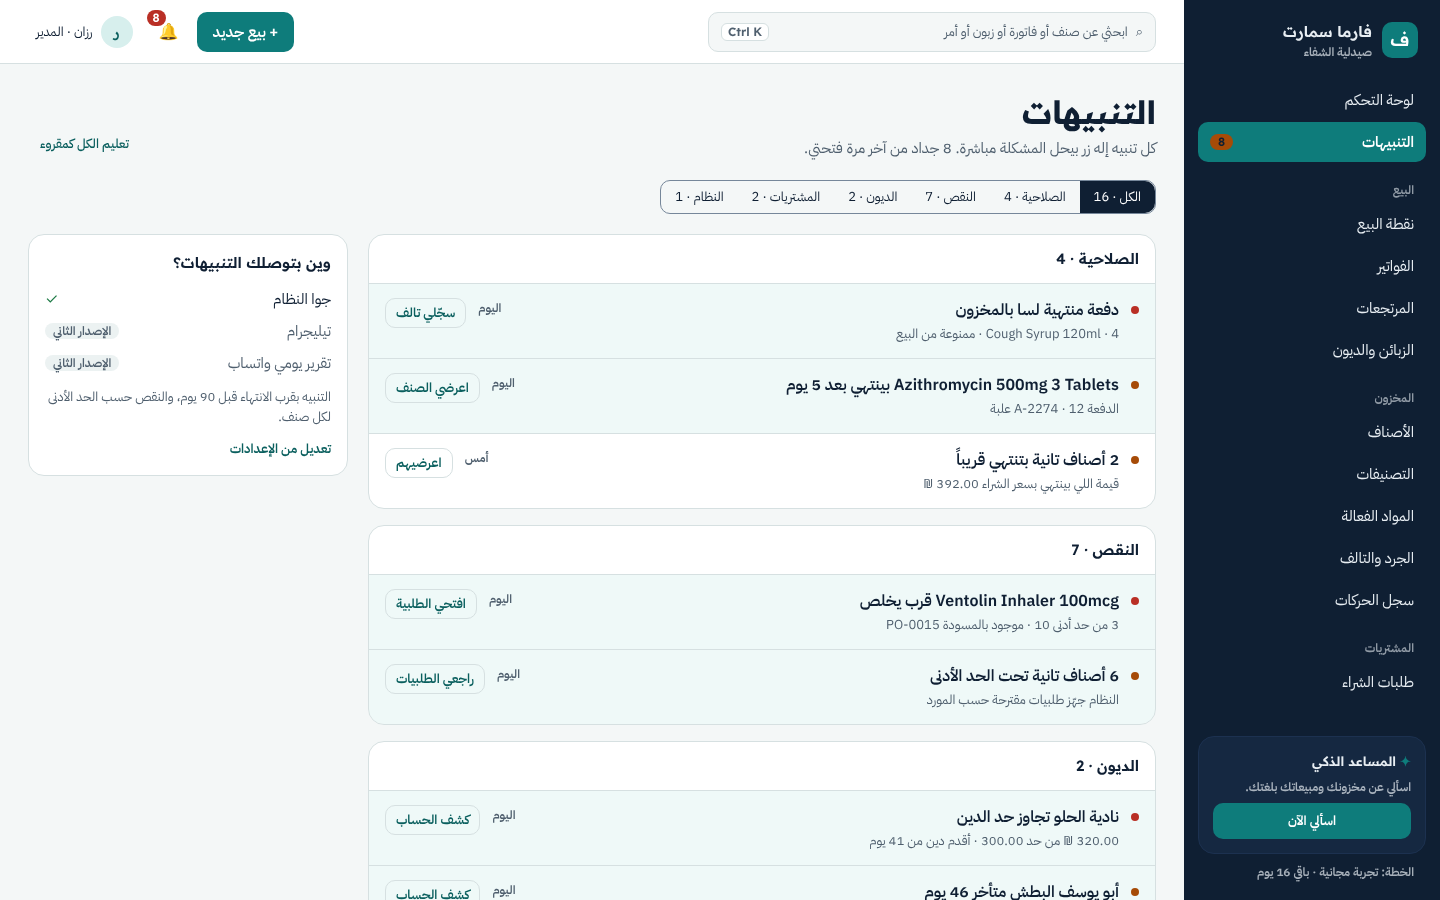
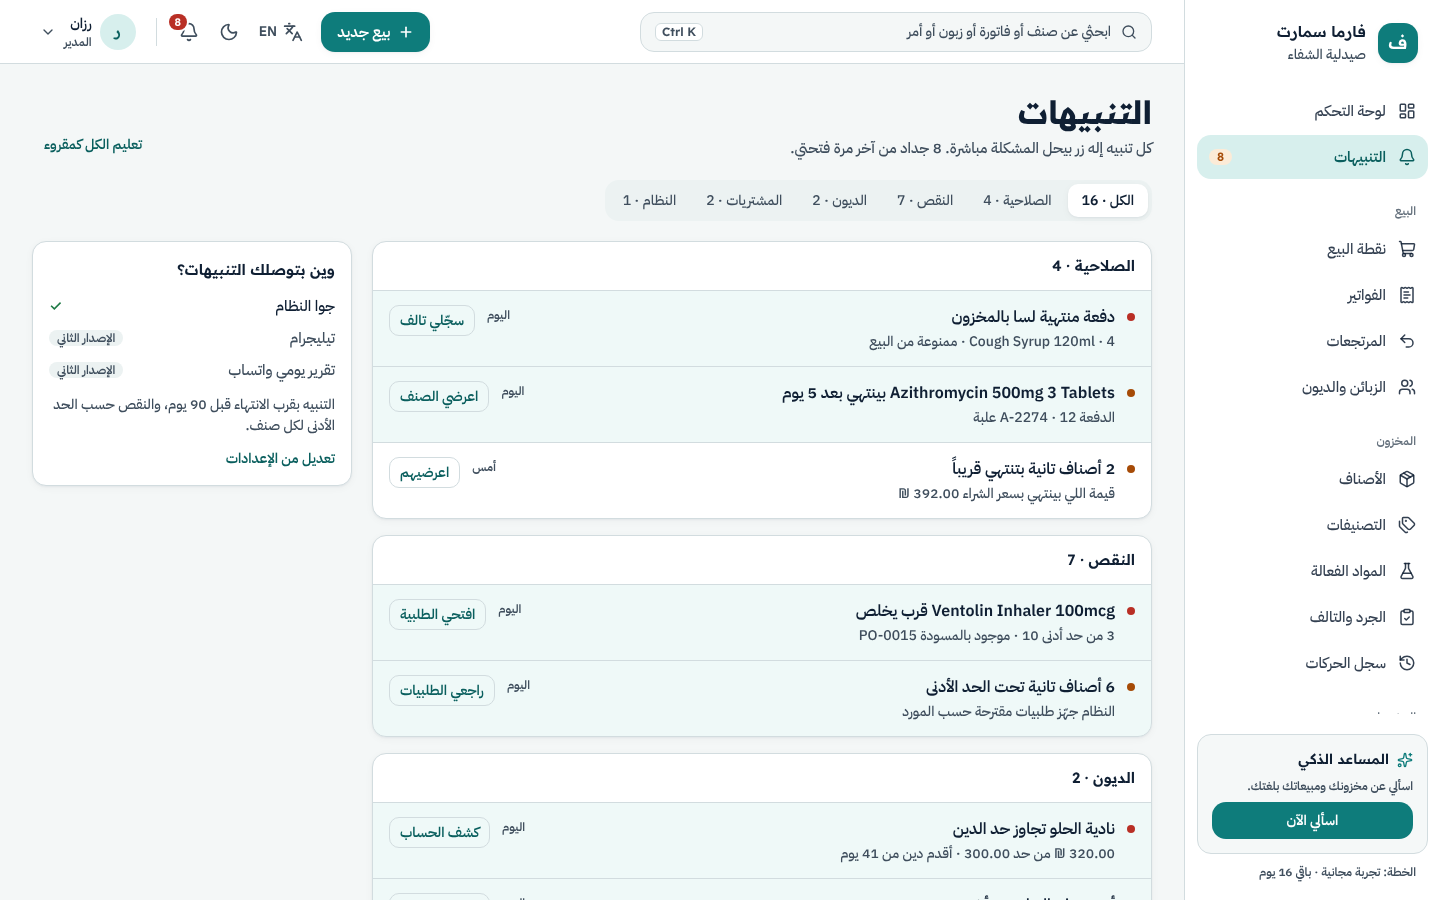
docs: round 12 (polish and landing page), fresh screenshots

diff --git a/docs/modules/12-polish.md b/docs/modules/12-polish.md
@@ -1,0 +1,119 @@
+# الجولة 12: تحسين الشكل، وصفحة الزوار
+
+بعد ما خلصت كل الشاشات، الشكل كان لسا باهت: الخط فاتح، والهوامش كبيرة، والأيقونات رموز نصية. هالجولة كلها عن الشكل والراحة، وما فيها شاشات شغل جديدة، إلا صفحة الزوار.
+
+النتيجة: 284 اختبار ناجح، منهم 10 جداد.
+
+## المحتويات
+
+1. [شو تغير](#شو-تغير)
+2. [جربيها بنفسك](#جربيها-بنفسك)
+3. [الأجزاء اللي انبنت](#الأجزاء-اللي-انبنت)
+4. [قرارات مهمة](#قرارات-مهمة)
+5. [الروابط الجديدة بالباك إند](#الروابط-الجديدة-بالباك-إند)
+6. [الاختبارات](#الاختبارات)
+7. [أخطاء لقيناها وصلحناها](#أخطاء-لقيناها-وصلحناها)
+
+---
+
+## شو تغير
+
+| الشكوى                           | الحل                                                                             |
+| -------------------------------- | -------------------------------------------------------------------------------- |
+| الخط فاتح وباهت                  | وزن النص صار 500 بدل 400، والألوان الثانوية أغمق. الخط نفسه نفس خط التصميم       |
+| هوامش كبيرة عالجوانب             | الصفحة بتوسع لحد 1800 بكسل بدل 1240                                              |
+| الأيقونات مش حقيقية              | كل أيقونات القائمة والأزرار صارت من مكتبة أيقونات حقيقية                         |
+| حدود الحقول باهتة                | للحقول لون حدود خاص فيها، أغمق، ومع تغيير لما الماوس يمر عليها                   |
+| السايدبار                        | أبيض بالنهار، وبالليل بلون خلفية الصفحة                                          |
+| اللغة والمظهر                    | زرين صغار بالشريط العلوي، بضغطة وحدة. والاختيار الكامل ضل بالإعدادات بشكل أنظف   |
+| اللوحات الجانبية ما بتسكر من برا | أي لوحة أو نافذة بتسكر لما تضغطي على الخلفية الغامقة. وقوائم الشريط العلوي كمان  |
+| السكرول                          | سلس بكل مكان، إلا لو الجهاز طالب تقليل الحركة                                    |
+| الإعدادات مش زي التصميم          | العنوان وزر الحفظ بشريط واحد ثابت، والقسم الحالي متعلم بالقائمة، وفي مكان للشعار |
+| التحليل الذكي بينقلني للمساعد    | صار بيفتح لوحة جانبية مكانه، من لوحة التحكم ومن التقارير                         |
+| صفحة الزوار مش موجودة            | صفحة عامة جديدة على `/welcome`، واللي مش مسجل دخول وفتح `/` بيوصلها              |
+
+---
+
+## جربيها بنفسك
+
+1. شغلي المشروع: `npm run dev`
+2. للصفحة العامة: افتحي الكونسول واكتبي
+
+```js
+localStorage.mockRole = 'none'
+```
+
+وبعدين افتحي `/`. أو افتحي `/welcome` مباشرة بأي وقت.
+
+3. للرجوع كمديرة: سجلي دخول من الصفحة، أو اكتبي
+
+```js
+localStorage.mockRole = 'manager'
+```
+
+---
+
+## الأجزاء اللي انبنت
+
+| الملف                                                   | شو بيعمل                                                      |
+| ------------------------------------------------------- | ------------------------------------------------------------- |
+| `src/pages/landing/`                                    | صفحة الزوار: التعريف، المزايا، الخطوات، الأدوار، وزر الانضمام |
+| `src/widgets/smart-analysis/`                           | التحليل الذكي كلوحة جانبية، وزر بيفتحها مكانه                 |
+| `src/shared/lib/dismiss/`                               | بيسكر أي قائمة صغيرة لما تضغطي برا أو على Escape              |
+| `src/features/switch-theme/ui/ThemeToggle.tsx`          | زر نهاري وليلي بالشريط العلوي                                 |
+| `src/features/switch-language/ui/LanguageToggle.tsx`    | زر تبديل اللغة بالشريط العلوي                                 |
+| `src/features/settings/edit-settings/ui/LogoPicker.tsx` | شعار الصيدلية: عرض ورفع                                       |
+| `src/pages/settings/model/useActiveSection.ts`          | بيعرف أي قسم ظاهر بالإعدادات، عشان يتعلم بالقائمة             |
+| `public/landing/`                                       | صورتين حقيقيتين للوحة التحكم، نهاري وليلي، لصفحة الزوار       |
+
+---
+
+## قرارات مهمة
+
+**الخط نفسه ما تغير.** خطوط التصميم هي نفسها اللي عنا. الباهت كان من الوزن 400 على ويندوز، ومن الألوان الفاتحة. فرفعنا الوزن وغمقنا الألوان بدل ما نغير الخط.
+
+**الشعار بينحفظ لحاله.** باقي الإعدادات بتستنى زر الحفظ، بس الشعار بيترفع أول ما تختاريه. لأنه ملف، ومش منطقي يضل معلق لحد الحفظ.
+
+**الصورة بتنفحص قبل ما تنبعت.** النوع والحجم بينفحصوا بالمتصفح عشان الرد يكون فوري. والسيرفر لازم يفحصهم كمان، لأنه الفحص بالمتصفح سهل يتجاوز.
+
+**صفحة الزوار على رابط خاص.** الرابط `/` بيضل للوحة التحكم. الزائر بس هو اللي بيتحول منه لـ `/welcome`. ولو حدا فتح رابط داخلي وهو مش مسجل، بيروح للدخول مثل قبل.
+
+**الأرقام بصفحة الزوار حقيقية.** ما حطينا أرقام مخترعة زي "الفاتورة بثلاث ثواني". كل رقم هو شي بيعمله النظام فعلاً: 3 أدوار، تنبيه 90 يوم، 4 تقارير، نسخة احتياطية كل يوم.
+
+---
+
+## الروابط الجديدة بالباك إند
+
+| الطريقة | الرابط               | الطلب                                            | الرد                                        |
+| ------- | -------------------- | ------------------------------------------------ | ------------------------------------------- |
+| POST    | `/api/pharmacy/logo` | ملف `logo`: صورة PNG أو JPG أو WebP، حدها 1 ميغا | بيانات الصيدلية مع `logoUrl`، أو 422 لو غلط |
+
+رموز الخطأ بحقل `logo`:
+
+```
+logoType
+logoSize
+```
+
+---
+
+## الاختبارات
+
+| الاختبار                 | شو بيتأكد منه                                                       |
+| ------------------------ | ------------------------------------------------------------------- |
+| `dialog.test.tsx`        | اللوحة بتسكر بالضغط برا، ومش بالضغط جواها                           |
+| `useDismiss.test.tsx`    | القائمة بتسكر بالضغط برا أو Escape، وما بتعمل شي وهي مسكرة          |
+| `ThemeSwitcher.test.tsx` | زر المظهر بيقلب بين النهاري والليلي                                 |
+| `SettingsPage.test.tsx`  | رفع الشعار بيبين الصورة، والملف الغلط بيترفض بدون ما ينبعت          |
+| `DashboardPage.test.tsx` | التحليل الذكي بيفتح مكانه، والرابط ما بيتغير                        |
+| `LandingPage.test.tsx`   | الزائر على `/` بيشوف الصفحة العامة، والأزرار بتودي للانضمام والدخول |
+
+---
+
+## أخطاء لقيناها وصلحناها
+
+**الصورة المرفوعة ما وصلت للسيرفر الوهمي بالاختبارات.** الفحص كان `file instanceof File`. بالاختبارات، الملف جاي من مكتبة غير مكتبة الصفحة، فالفحص بيفشل مع إنه ملف سليم. صار الفحص على شكل الملف بدل نوعه.
+
+**عنوان القسم كان يختفي تحت الشريط الثابت.** لما تضغطي على قسم من القائمة، الصفحة كانت تنزل لحد ما العنوان يصير تحت شريط الحفظ. زدنا المسافة اللي بتوقف عندها.
+
+**أول حرف بالشعار كان "ا".** اسم "صيدلية الشفاء" لما نشيل كلمة صيدلية بيبدأ بـ "ال". صرنا نشيلها كمان، فبيطلع "ش" زي التصميم. ونفس المشكلة كانت بأدوار صفحة الزوار، فحطينا أيقونات بدل الحروف.

diff --git a/docs/README.md b/docs/README.md
@@ -2,17 +2,18 @@
 
 ملف لكل وحدة، بيشرح كل شي انبنى فيها: الشاشات، والملفات، والقرارات، والاختبارات، وشو تعلمنا.
 
-| الوحدة                      | الملف                                                          | الحالة |
-| --------------------------- | -------------------------------------------------------------- | ------ |
-| 0. الأساس                   | [00-foundation.md](modules/00-foundation.md)                   | خلصت   |
-| 1. الدخول والبداية          | [01-auth-onboarding.md](modules/01-auth-onboarding.md)         | خلصت   |
-| 2. الموظفون والإعدادات      | [02-staff-settings.md](modules/02-staff-settings.md)           | خلصت   |
-| 3. الأصناف والتصنيفات       | [03-products-catalog.md](modules/03-products-catalog.md)       | خلصت   |
-| 4. المشتريات والموردون      | [04-purchases-suppliers.md](modules/04-purchases-suppliers.md) | خلصت   |
-| 5. المخزون                  | [05-stock.md](modules/05-stock.md)                             | خلصت   |
-| 6. البيع                    | [06-sales.md](modules/06-sales.md)                             | خلصت   |
-| 7. الزبائن والديون          | [07-customers.md](modules/07-customers.md)                     | خلصت   |
-| 8. الورديات والمصاريف       | [08-shifts-expenses.md](modules/08-shifts-expenses.md)         | خلصت   |
-| 9. لوحة التحكم والتنبيهات   | [09-dashboard-alerts.md](modules/09-dashboard-alerts.md)       | خلصت   |
-| 10. التقارير والمساعد الذكي | [10-reports-assistant.md](modules/10-reports-assistant.md)     | خلصت   |
-| 11. لوحة صاحبة المنصة       | [11-platform.md](modules/11-platform.md)                       | خلصت   |
+| الوحدة                       | الملف                                                          | الحالة |
+| ---------------------------- | -------------------------------------------------------------- | ------ |
+| 0. الأساس                    | [00-foundation.md](modules/00-foundation.md)                   | خلصت   |
+| 1. الدخول والبداية           | [01-auth-onboarding.md](modules/01-auth-onboarding.md)         | خلصت   |
+| 2. الموظفون والإعدادات       | [02-staff-settings.md](modules/02-staff-settings.md)           | خلصت   |
+| 3. الأصناف والتصنيفات        | [03-products-catalog.md](modules/03-products-catalog.md)       | خلصت   |
+| 4. المشتريات والموردون       | [04-purchases-suppliers.md](modules/04-purchases-suppliers.md) | خلصت   |
+| 5. المخزون                   | [05-stock.md](modules/05-stock.md)                             | خلصت   |
+| 6. البيع                     | [06-sales.md](modules/06-sales.md)                             | خلصت   |
+| 7. الزبائن والديون           | [07-customers.md](modules/07-customers.md)                     | خلصت   |
+| 8. الورديات والمصاريف        | [08-shifts-expenses.md](modules/08-shifts-expenses.md)         | خلصت   |
+| 9. لوحة التحكم والتنبيهات    | [09-dashboard-alerts.md](modules/09-dashboard-alerts.md)       | خلصت   |
+| 10. التقارير والمساعد الذكي  | [10-reports-assistant.md](modules/10-reports-assistant.md)     | خلصت   |
+| 11. لوحة صاحبة المنصة        | [11-platform.md](modules/11-platform.md)                       | خلصت   |
+| 12. تحسين الشكل وصفحة الزوار | [12-polish.md](modules/12-polish.md)                           | خلصت   |

diff --git a/README.md b/README.md
@@ -92,6 +92,7 @@
 | 9. لوحة التحكم والتنبيهات | لوحة المديرة والصيدلي والكاشير، مركز التنبيهات، قائمة الجرس                                                |
 | 10. التقارير والمساعد     | تقارير المبيعات والأرباح والمخزون والديون، المساعد الذكي، التحليل الذكي                                    |
 | 11. لوحة صاحبة المنصة     | الصيدليات، تفاصيل صيدلية، الاشتراكات والمدفوعات                                                            |
+| 12. تحسين الشكل           | صفحة الزوار، شريط علوي جديد، الإعدادات زي التصميم، التحليل الذكي مكانه                                     |
 
 | نقطة البيع                                         | التقارير                                        |
 | -------------------------------------------------- | ----------------------------------------------- |
@@ -100,6 +101,8 @@
 | ![الزبائن والديون](docs/screenshots/customers.png) | ![التنبيهات](docs/screenshots/alerts.png)       |
 | **المساعد الذكي**                                  | **لوحة صاحبة المنصة**                           |
 | ![المساعد الذكي](docs/screenshots/assistant.png)   | ![الصيدليات](docs/screenshots/platform.png)     |
+| **صفحة الزوار**                                    |                                                 |
+| ![صفحة الزوار](docs/screenshots/landing.png)       |                                                 |
 
 ---
 
@@ -107,9 +110,9 @@
 
 | الشي                 | العدد                                            |
 | -------------------- | ------------------------------------------------ |
-| روابط بالتطبيق       | 44                                               |
-| ملفات اختبار         | 73                                               |
-| اختبارات ناجحة       | 274                                              |
+| روابط بالتطبيق       | 45                                               |
+| ملفات اختبار         | 75                                               |
+| اختبارات ناجحة       | 284                                              |
 | روابط بعقد الباك إند | كل رابط الواجهة بتستخدمه، بشكل طلبه ورده وأخطائه |
 
 ---
